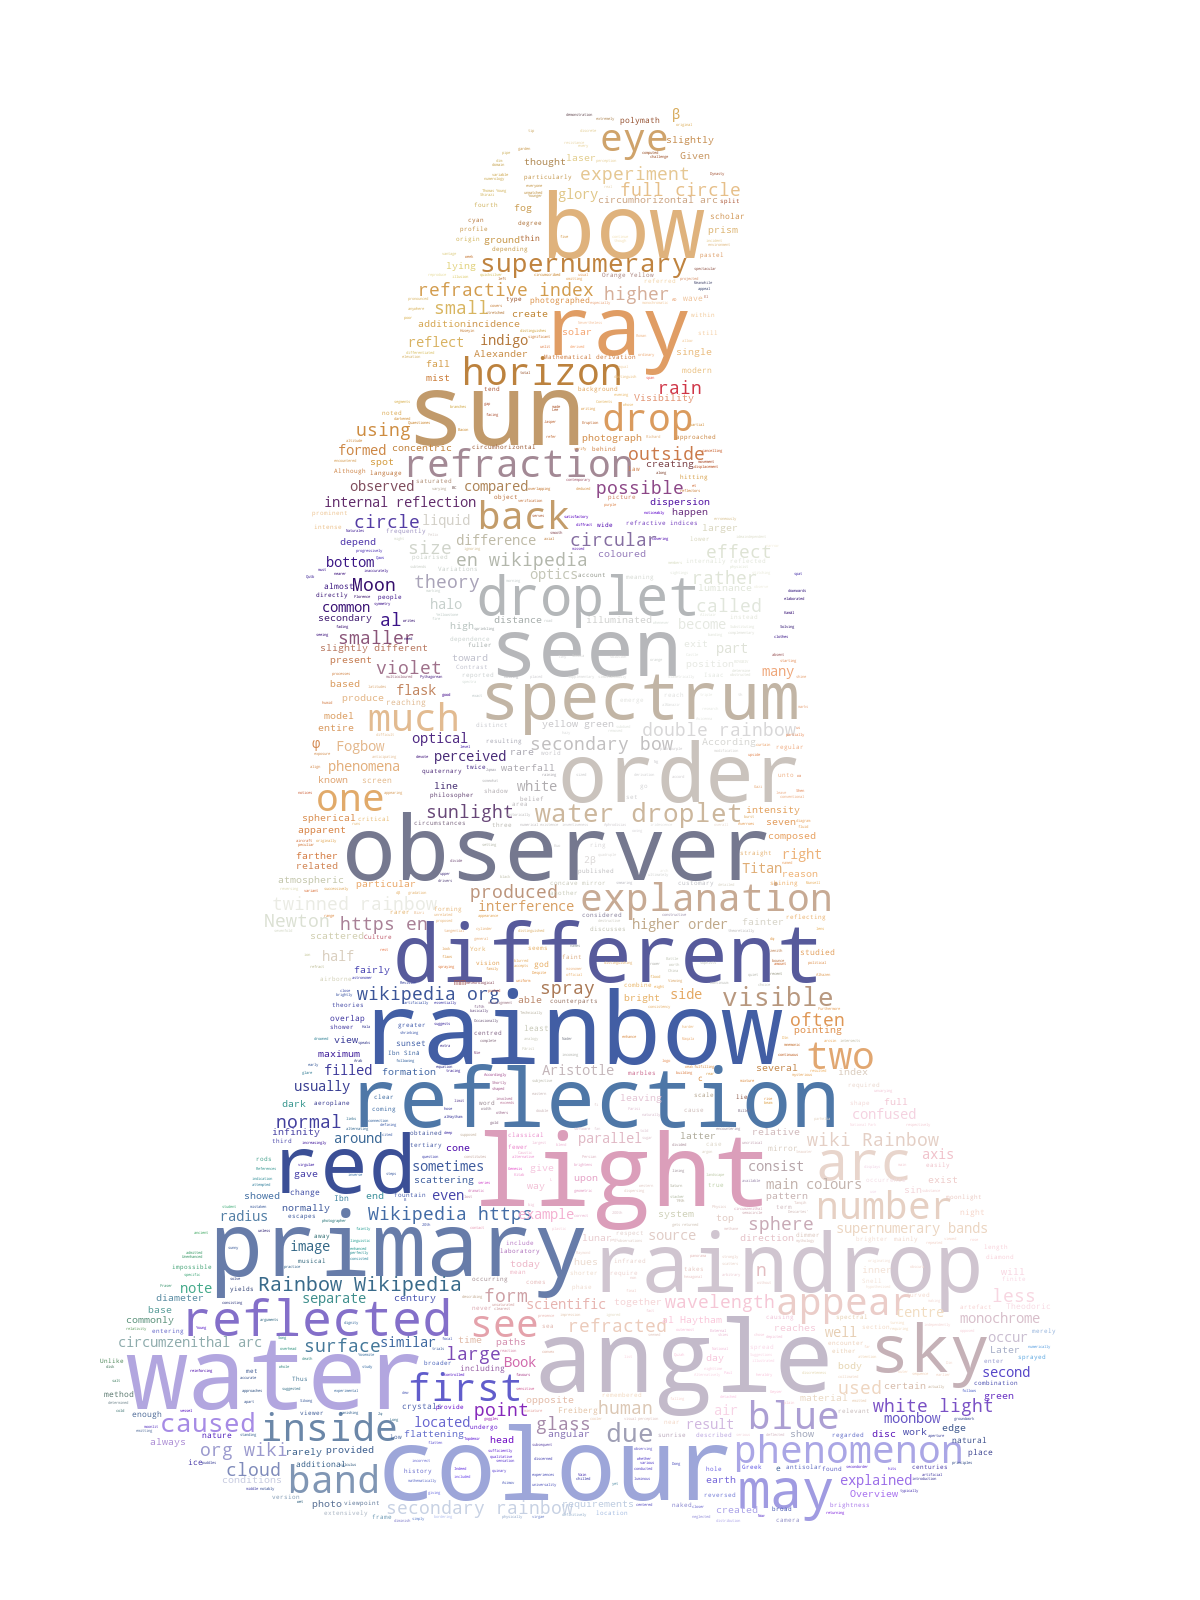
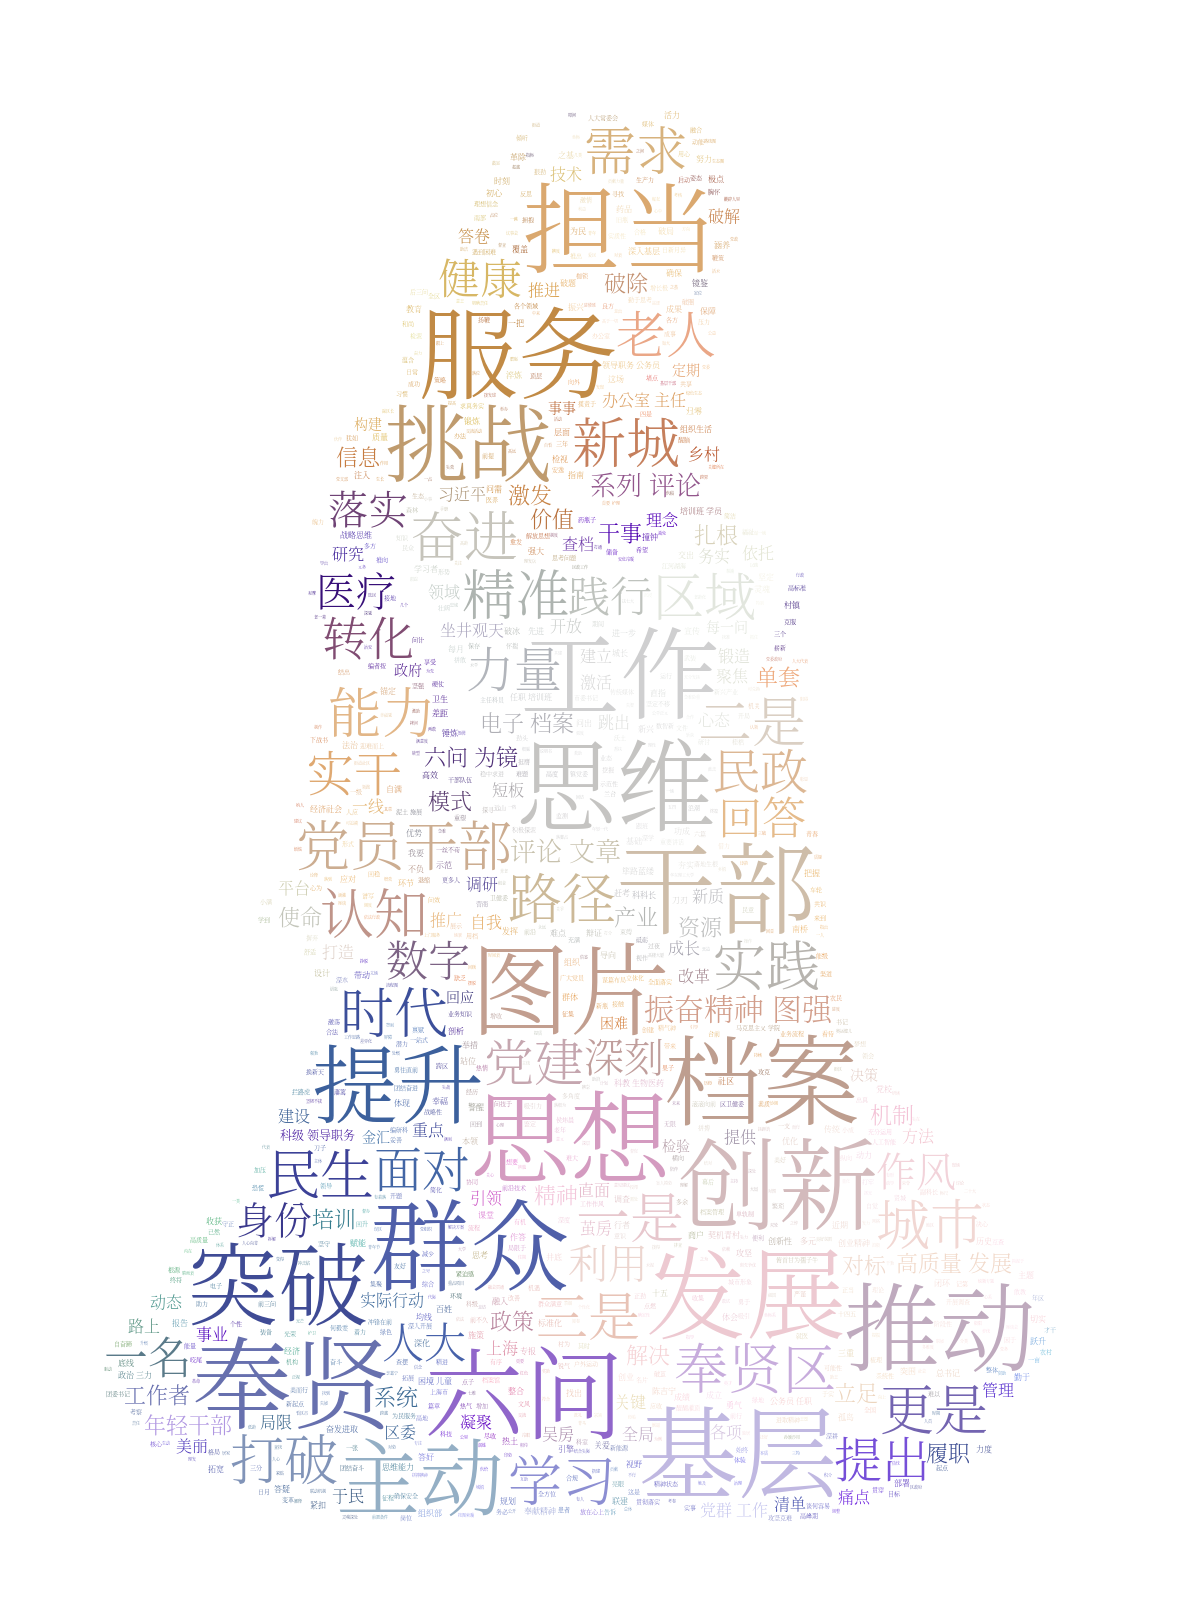
中文词云parrot文件

Changed region(s): [[0.0925, 0.0625, 0.8633, 0.9688]]

diff --git a/examples/wordcloud_cn.py b/examples/wordcloud_cn.py
@@ -26,9 +26,9 @@ from wordcloud import WordCloud, ImageColorGenerator
 # get data directory (using getcwd() is needed to support running example in generated IPython notebook)
 d = path.dirname(__file__) if "__file__" in locals() else os.getcwd()
 
-stopwords_path = d + '/wc_cn/stopwords_cn_en.txt'
+stopwords_path = os.path.join(d, "wc_cn/stopwords_cn_en.txt")
 # Chinese fonts must be set
-font_path = d + '/fonts/SourceHanSerif/SourceHanSerifK-Light.otf'
+font_path = os.path.join(d, "fonts/SourceHanSerif/SourceHanSerifK-Light.otf")
 
 # the path to save worldcloud
 imgname1 = d + '/wc_cn/LuXun.jpg'
@@ -36,40 +36,43 @@ imgname2 = d + '/wc_cn/LuXun_colored.jpg'
 # read the mask / color image taken from
 back_coloring = imread(path.join(d, d + '/wc_cn/LuXun_color.jpg'))
 
-# Read the whole text.
-text = open(path.join(d, d + '/wc_cn/CalltoArms.txt')).read()
-
-# if you want use wordCloud,you need it
-# add userdict by add_word()
+text_path = os.path.join(d, "wc_cn/CalltoArms.txt")
 userdict_list = ['阿Ｑ', '孔乙己', '单四嫂子']
+text = open(text_path, encoding="utf-8").read()
 
+def jieba_processing_txt(text, stopwords_path=None, userdict_list=None):
+    if userdict_list:
+        for word in userdict_list:
+            jieba.add_word(word)
 
-# The function for processing text with Jieba
-def jieba_processing_txt(text):
-    for word in userdict_list:
-        jieba.add_word(word)
-
-    mywordlist = []
     seg_list = jieba.cut(text, cut_all=False)
-    liststr = "/ ".join(seg_list)
+    words = [w.strip() for w in seg_list if len(w.strip()) > 1]
 
-    with open(stopwords_path, encoding='utf-8') as f_stop:
-        f_stop_text = f_stop.read()
-        f_stop_seg_list = f_stop_text.splitlines()
+    if stopwords_path:
+        with open(stopwords_path, encoding='utf-8') as f:
+            stopwords = set(f.read().splitlines())
+        words = [w for w in words if w not in stopwords]
 
-    for myword in liststr.split('/'):
-        if not (myword.strip() in f_stop_seg_list) and len(myword.strip()) > 1:
-            mywordlist.append(myword)
-    return ' '.join(mywordlist)
+    return ' '.join(words)
 
+processed_text = jieba_processing_txt(text, stopwords_path=stopwords_path, userdict_list=userdict_list)
 
-wc = WordCloud(font_path=font_path, background_color="white", max_words=2000, mask=back_coloring,
-               max_font_size=100, random_state=42, width=1000, height=860, margin=2,)
-
+wc = WordCloud(
+    font_path=font_path,
+    max_words=5000,
+    mask=back_coloring,
+    max_font_size=50,
+    min_font_size=2,
+    font_step=1,
+    scale=2,
+    prefer_horizontal=1.0,
+    relative_scaling=0,
+    random_state=42,
+    background_color="white"
+)
+wc.generate(processed_text)
 
 if __name__ == '__main__':
-    wc.generate(jieba_processing_txt(text))
-
     image_colors_default = ImageColorGenerator(back_coloring)
 
     plt.figure()

diff --git a/examples/parrot.py b/examples/parrot.py
@@ -8,6 +8,7 @@ Recreating an image similar to the parrot example.
 
 import os
 from PIL import Image
+import jieba
 
 import numpy as np
 import matplotlib.pyplot as plt
@@ -15,11 +16,30 @@ from scipy.ndimage import gaussian_gradient_magnitude
 
 from wordcloud import WordCloud, ImageColorGenerator
 
+def jieba_processing_txt(text, stopwords_path=None, userdict_list=None):
+    if userdict_list:
+        for word in userdict_list:
+            jieba.add_word(word)
+
+    seg_list = jieba.cut(text, cut_all=False)
+    words = [w.strip() for w in seg_list if len(w.strip()) > 1]
+
+    if stopwords_path:
+        with open(stopwords_path, encoding='utf-8') as f:
+            stopwords = set(f.read().splitlines())
+        words = [w for w in words if w not in stopwords]
+
+    return ' '.join(words)
+
 # get data directory (using getcwd() is needed to support running example in generated IPython notebook)
 d = os.path.dirname(__file__) if "__file__" in locals() else os.getcwd()
 
-# load wikipedia text on rainbow
-text = open(os.path.join(d, 'wiki_rainbow.txt'), encoding="utf-8").read()
+font_path = os.path.join(d, "fonts/SourceHanSerif/SourceHanSerifK-Light.otf")
+text_path = os.path.join(d, "wc_cn/CalltoArms.txt")
+stopwords_path = os.path.join(d, "wc_cn/stopwords_cn_en.txt")
+userdict_list = ['阿Ｑ', '孔乙己', '单四嫂子']
+text = open(text_path, encoding="utf-8").read()
+processed_text = jieba_processing_txt(text, stopwords_path=stopwords_path, userdict_list=userdict_list)
 
 # load image. This has been modified in gimp to be brighter and have more saturation.
 parrot_color = np.array(Image.open(os.path.join(d, "alice_color.png")))
@@ -39,6 +59,7 @@ parrot_mask[edges > .08] = 255
 # relative_scaling=0 means the frequencies in the data are reflected less
 # acurately but it makes a better picture
 wc = WordCloud(
+    font_path=font_path,
     max_words=5000,
     mask=parrot_mask,
     max_font_size=50,
@@ -52,7 +73,7 @@ wc = WordCloud(
 )
 
 # generate word cloud
-wc.generate(text)
+wc.generate(processed_text)
 plt.imshow(wc)
 
 # create coloring from image
